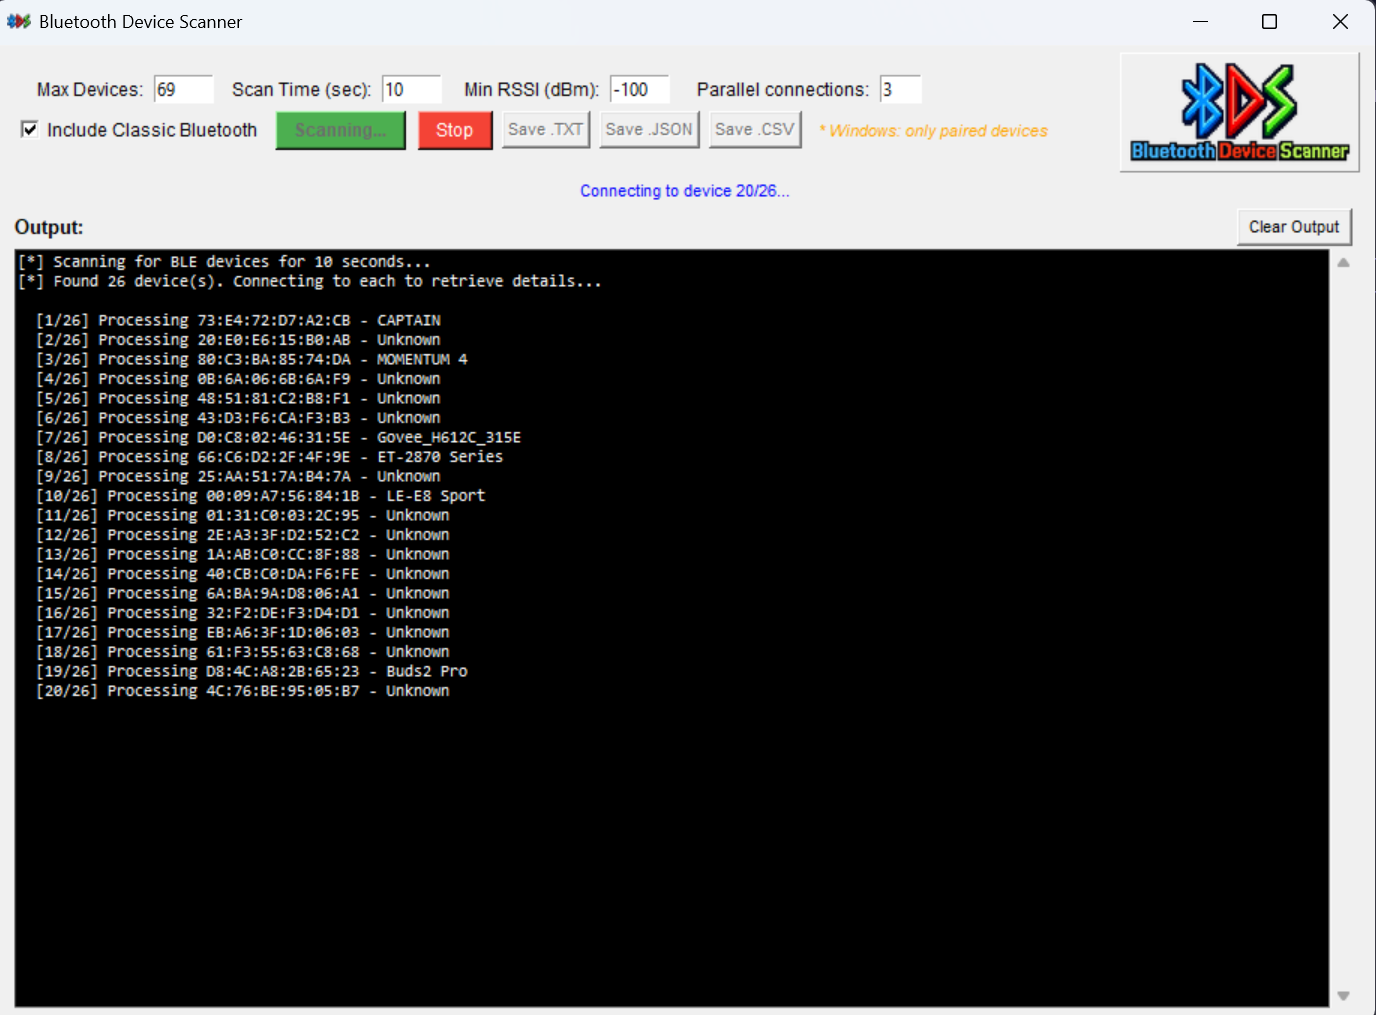
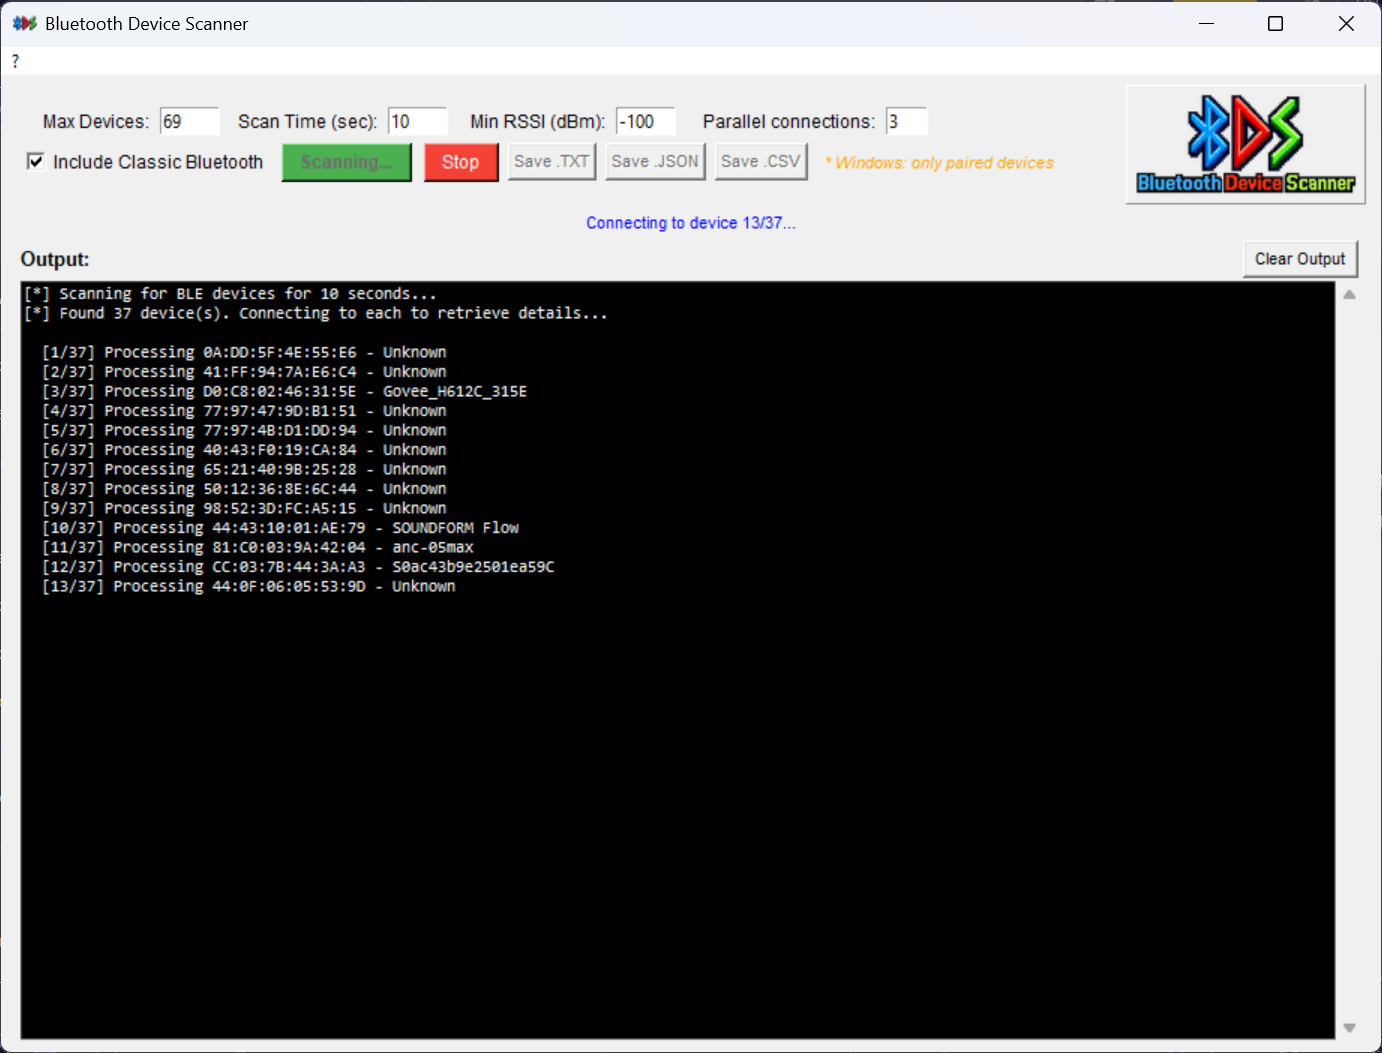
Added about

diff --git a/bt_scanner_gui.py b/bt_scanner_gui.py
@@ -15,6 +15,7 @@ import subprocess
 import sys
 import csv
 import os
+import webbrowser
 
 def resource_path(relative_path):
     try:
@@ -299,6 +300,12 @@ class BluetoothScannerApp:
         root.minsize(850, 600)
         root.resizable(True, True)
 
+        menubar = tk.Menu(root)
+        root.config(menu=menubar)
+        help_menu = tk.Menu(menubar, tearoff=0)
+        menubar.add_cascade(label="?", menu=help_menu)
+        help_menu.add_command(label="About", command=self.show_about)
+
         self.hcitool_available = check_hcitool_linux()
         if not self.hcitool_available and sys.platform.startswith("linux"):
             messagebox.showwarning(
@@ -416,6 +423,70 @@ class BluetoothScannerApp:
         self.is_scanning = False
         self.stop_event = asyncio.Event()
         self.scan_task = None
+
+    def show_about(self):
+        about_window = tk.Toplevel(self.root)
+        about_window.title("About")
+        about_window.resizable(False, False)
+        about_window.grab_set()
+
+        icon_path = resource_path("BluetoothDeviceScannerIcon.ico")
+        if os.path.exists(icon_path):
+            try:
+                about_window.iconbitmap(icon_path)
+            except Exception:
+                pass
+
+        # Main frame with minimal padding
+        main_frame = tk.Frame(about_window, padx=20, pady=10)
+        main_frame.pack(fill=tk.BOTH, expand=True)
+
+        # Logo (larger, centered)
+        logo_path = resource_path("BluetoothDeviceScannerLogo.png")
+        if os.path.exists(logo_path) and PIL_AVAILABLE:
+            try:
+                img = Image.open(logo_path)
+                img_resized = img.resize((240, 120), Image.Resampling.LANCZOS)
+                logo_img = ImageTk.PhotoImage(img_resized)
+                logo_label = tk.Label(main_frame, image=logo_img, bg=about_window.cget("bg"))
+                logo_label.image = logo_img
+                logo_label.pack(pady=(0, 15))
+            except Exception:
+                pass
+
+        # Text information (left-aligned)
+        info_frame = tk.Frame(main_frame)
+        info_frame.pack(fill=tk.X, pady=(0, 15))
+
+        version_label = tk.Label(info_frame, text="28-05-26 - Version 1.0.1", font=("Arial", 10), anchor="w")
+        version_label.pack(fill=tk.X, pady=2)
+
+        copyright_label = tk.Label(info_frame, text="Copyright © 2026 Brage Mellesdal", font=("Arial", 10), anchor="w")
+        copyright_label.pack(fill=tk.X, pady=2)
+
+        link_frame = tk.Frame(info_frame)
+        link_frame.pack(fill=tk.X, pady=2)
+        link_label = tk.Label(link_frame, text="www.ProjectLinkPlaceholder.gg", fg="blue", cursor="hand2", font=("Arial", 10, "underline"))
+        link_label.pack(side=tk.LEFT)
+        def open_link(event):
+            webbrowser.open("https://www.ProjectLinkPlaceholder.gg")
+        link_label.bind("<Button-1>", open_link)
+
+        # OK button right-aligned
+        button_frame = tk.Frame(main_frame)
+        button_frame.pack(fill=tk.X)
+        ok_button = tk.Button(button_frame, text="OK", command=about_window.destroy, width=10)
+        ok_button.pack(side=tk.RIGHT)
+
+        # Let window shrink to fit content
+        about_window.update_idletasks()
+        width = about_window.winfo_reqwidth()
+        height = about_window.winfo_reqheight()
+        about_window.geometry(f"{width}x{height}")
+        # Center on parent
+        x = self.root.winfo_x() + (self.root.winfo_width() - width) // 2
+        y = self.root.winfo_y() + (self.root.winfo_height() - height) // 2
+        about_window.geometry(f"+{x}+{y}")
 
     def clear_output(self):
         self.output_text.delete(1.0, tk.END)
